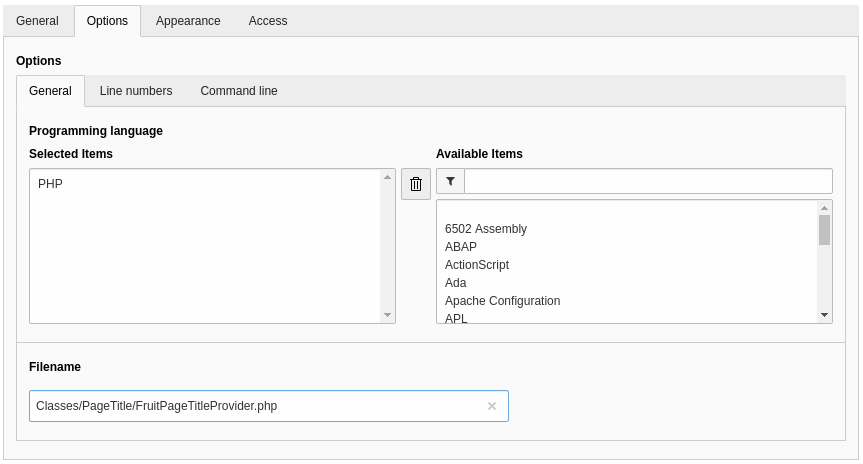
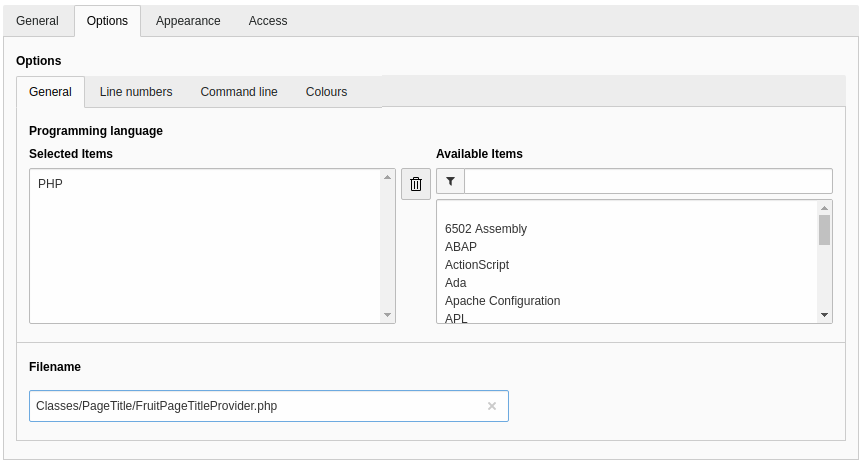
[FEATURE] Add plugin "Inline colour"

Changed region(s): [[0.0904, 0.181, 0.4218, 0.2414], [0.0301, 0.1509, 0.0904, 0.2112]]

diff --git a/Resources/Public/Prism/plugins/inline-color/prism-inline-color.min.js b/Resources/Public/Prism/plugins/inline-color/prism-inline-color.min.js
@@ -1,0 +1,1 @@
+!function(){if("undefined"!=typeof self&&"undefined"!=typeof Prism&&"undefined"!=typeof document){var a=/<\/?(?!\d)[^\s>\/=$<%]+(?:\s(?:\s*[^\s>\/=]+(?:\s*=\s*(?:"[^"]*"|'[^']*'|[^\s'">=]+(?=[\s>]))|(?=[\s/>])))+)?\s*\/?>/g,c=/^#?((?:[\da-f]){3,4}|(?:[\da-f]{2}){3,4})$/i,f=[function(n){var r=c.exec(n);if(r){for(var o=6<=(n=r[1]).length?2:1,e=n.length/o,s=1==o?1/15:1/255,t=[],i=0;i<e;i++){var a=parseInt(n.substr(i*o,o),16);t.push(a*s)}return 3==e&&t.push(1),"rgba("+t.slice(0,3).map(function(n){return String(Math.round(255*n))}).join(",")+","+String(Number(t[3].toFixed(3)))+")"}},function(n){var r=(new Option).style;return r.color=n,r.color?n:void 0}];Prism.hooks.add("wrap",function(n){if("color"===n.type||0<=n.classes.indexOf("color")){for(var r,o=n.content,e=o.split(a).join(""),s=0,t=f.length;s<t&&!r;s++)r=f[s](e);if(!r)return;var i='<span class="inline-color-wrapper"><span class="inline-color" style="background-color:'+r+';"></span></span>';n.content=i+o}})}}();

diff --git a/Resources/Public/Prism/plugins/inline-color/prism-inline-color.css b/Resources/Public/Prism/plugins/inline-color/prism-inline-color.css
@@ -1,0 +1,1 @@
[1 lines of base64/hex data omitted]

diff --git a/Build/gulpfile.js b/Build/gulpfile.js
@@ -16,6 +16,7 @@ const options = {
   outputPath: '../Resources/Public/Prism/',
   availablePlugins: [
     'command-line',
+    'inline-color',
     'line-highlight',
     'line-numbers',
   ],

diff --git a/Tests/Unit/ViewHelpers/PrismViewHelperTest.php b/Tests/Unit/ViewHelpers/PrismViewHelperTest.php
@@ -319,6 +319,50 @@ class PrismViewHelperTest extends TestCase
             '<pre><code class="language-none">some code snippet</code></pre>',
         ];
 
+        yield 'With activated inline colour for CSS, css-extras is added' => [
+            [
+                'options' => [
+                    'programmingLanguage' => 'css',
+                    'inlineColour' => '1',
+                ],
+                'snippet' => 'some code snippet',
+            ],
+            '<pre><code class="language-css-extras language-css">some code snippet</code></pre>',
+        ];
+
+        yield 'With activated inline colour for HTML, css-extras is added' => [
+            [
+                'options' => [
+                    'programmingLanguage' => 'html',
+                    'inlineColour' => '1',
+                ],
+                'snippet' => 'some code snippet',
+            ],
+            '<pre><code class="language-css-extras language-html">some code snippet</code></pre>',
+        ];
+
+        yield 'With activated inline colour for PHP, css-extras is not added' => [
+            [
+                'options' => [
+                    'programmingLanguage' => 'php',
+                    'inlineColour' => '1',
+                ],
+                'snippet' => 'some code snippet',
+            ],
+            '<pre><code class="language-php">some code snippet</code></pre>',
+        ];
+
+        yield 'With deactivated inline colour for CSS, css-extras is not added' => [
+            [
+                'options' => [
+                    'programmingLanguage' => 'css',
+                    'inlineColour' => '0',
+                ],
+                'snippet' => 'some code snippet',
+            ],
+            '<pre><code class="language-css">some code snippet</code></pre>',
+        ];
+
         yield 'Special characters in attribute values are masked' => [
             [
                 'options' => [

diff --git a/Classes/ViewHelpers/PrismViewHelper.php b/Classes/ViewHelpers/PrismViewHelper.php
@@ -79,6 +79,7 @@ class PrismViewHelper extends ViewHelper\AbstractViewHelper
         static::handleMainAssets();
         static::handleLineNumbers();
         static::handleCommandLine();
+        static::handleInlineColour();
         static::handleProgrammingLanguage();
 
         return static::buildHtml();
@@ -157,6 +158,21 @@ class PrismViewHelper extends ViewHelper\AbstractViewHelper
         } elseif (static::$configuration['codehighlightCommandLineDefaultHost'] ?? false) {
             static::addToPreAttributes('host', static::$configuration['codehighlightCommandLineDefaultHost']);
         }
+    }
+
+    private static function handleInlineColour(): void
+    {
+        if (!(static::$options['inlineColour'] ?? false)) {
+            return;
+        }
+
+        if (!\in_array(static::$options['programmingLanguage'], ['css', 'html'])) {
+            return;
+        }
+
+        static::addCssFile('plugins/inline-color/prism-inline-color.css');
+        static::addJsFile('plugins/inline-color/prism-inline-color.min.js');
+        static::$codeClasses[] = 'language-css-extras';
     }
 
     private static function handleProgrammingLanguage(): void

diff --git a/Documentation/Editor/Index.rst b/Documentation/Editor/Index.rst
@@ -188,6 +188,26 @@ Filter output
    `plugin page <https://prismjs.com/plugins/command-line/>`__ of the Prism
    library.
 
+.. _editors-content-element-options-colours:
+
+Colours
+~~~~~~~
+
+To show a preview of a colour in CSS styles you can activate the
+:guilabel:`Inline colour` switch.
+
+.. figure:: /Images/Editor/content-element-options-colours.png
+   :class: with-shadow
+   :alt: Options for a colour preview
+
+   Options for a colour preview
+
+This adds a small square before the colour definitions:
+
+.. figure:: /Images/Introduction/example-css-inline-colours.png
+   :class: with-shadow
+   :alt: CSS snippet with inline colours
+
 
 .. _editors-content-element-access:
 

diff --git a/Documentation/Introduction/Index.rst b/Documentation/Introduction/Index.rst
@@ -44,6 +44,17 @@ Example output using the Coy theme for a shell command with prompt:
    :alt: Shell command with prompt
 
 
+CSS inline colours
+------------------
+
+Example output using the Coy theme for a CSS snippet with activated
+inline colours (the coloured square before the colour definition):
+
+.. figure:: /Images/Introduction/example-css-inline-colours.png
+   :class: with-shadow
+   :alt: CSS snippet with inline colours
+
+
 .. _release-management:
 
 Release Management

diff --git a/CHANGELOG.md b/CHANGELOG.md
@@ -6,6 +6,9 @@ and this project adheres to [Semantic Versioning](https://semver.org/spec/v2.0.0
 
 ## [Unreleased]
 
+### Added
+- Plugin "Inline colour" to show colour preview in CSS snippets
+
 ## [2.3.0] - 2020-10-12
 
 ### Updated
